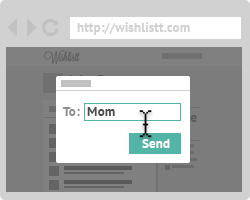
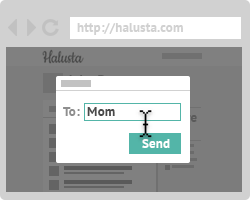
Name change

Changed region(s): [[0.448, 0.12, 0.7, 0.18], [0.168, 0.24, 0.336, 0.33], [0.728, 0.12, 0.756, 0.18]]

diff --git a/app/mailers/user_mailer.rb b/app/mailers/user_mailer.rb
@@ -1,5 +1,5 @@
 class UserMailer < ActionMailer::Base
-  default from: "Wishlistt <no-reply@wishlistt.com>"
+  default from: "Halusta <no-reply@halusta.com>"
 
   # Subject can be set in your I18n file at config/locales/en.yml
   # with the following lookup:
@@ -10,14 +10,14 @@ class UserMailer < ActionMailer::Base
     @user = User.find(user_id)
     @generated_password = generated_password if generated_password.present?
 
-    mail to: @user.email, subject: "[Wishlistt] Sign Up Confirmation"
+    mail to: @user.email, subject: "[Halusta] Sign Up Confirmation"
   end
 
   def new_follower(current_user, followed_user)
     @current_user = User.find(current_user)
     @followed_user = User.find(followed_user)
 
-    mail to: @followed_user.email, subject: "#{@followed_user.name}, you have a new follower on Wishlistt"
+    mail to: @followed_user.email, subject: "#{@followed_user.name}, you have a new follower on Halusta"
   end
 
   def new_comment(current_user, followed_user, wish, comment)
@@ -32,25 +32,25 @@ class UserMailer < ActionMailer::Base
   def survey(user_id)
     @user = User.find(user_id)
 
-    mail from: "Daniel Friis <df@wishlistt.com>", to: @user.email, subject: "Are we doing things right?"
+    mail from: "Daniel Friis <df@halusta.com>", to: @user.email, subject: "Are we doing things right?"
   end
 
   def friendly_reminder(user_id)
     @user = User.find(user_id)
 
-    mail from: "Daniel Friis <df@wishlistt.com>", to: @user.email, subject: "Friendly Reminder: Are we doing things right?"
+    mail from: "Daniel Friis <df@halusta.com>", to: @user.email, subject: "Friendly Reminder: Are we doing things right?"
   end
 
   def share_list(message, list_id)
     @message = message
     @list = List.find(list_id)
 
-    mail from: "#{@list.user.name} <no-reply@wishlistt.com>", to: message.email, subject: "#{@list.user.name} via Wishlistt", reply_to: @list.user.email
+    mail from: "#{@list.user.name} <no-reply@halusta.com>", to: message.email, subject: "#{@list.user.name} via Halusta", reply_to: @list.user.email
   end
 
   def password_reset(user)
     @user = user
-    mail to: user.email, subject: "[Wishlistt] Password reset"
+    mail to: user.email, subject: "[Halusta] Password reset"
   end
 
   def contact_support(message)
